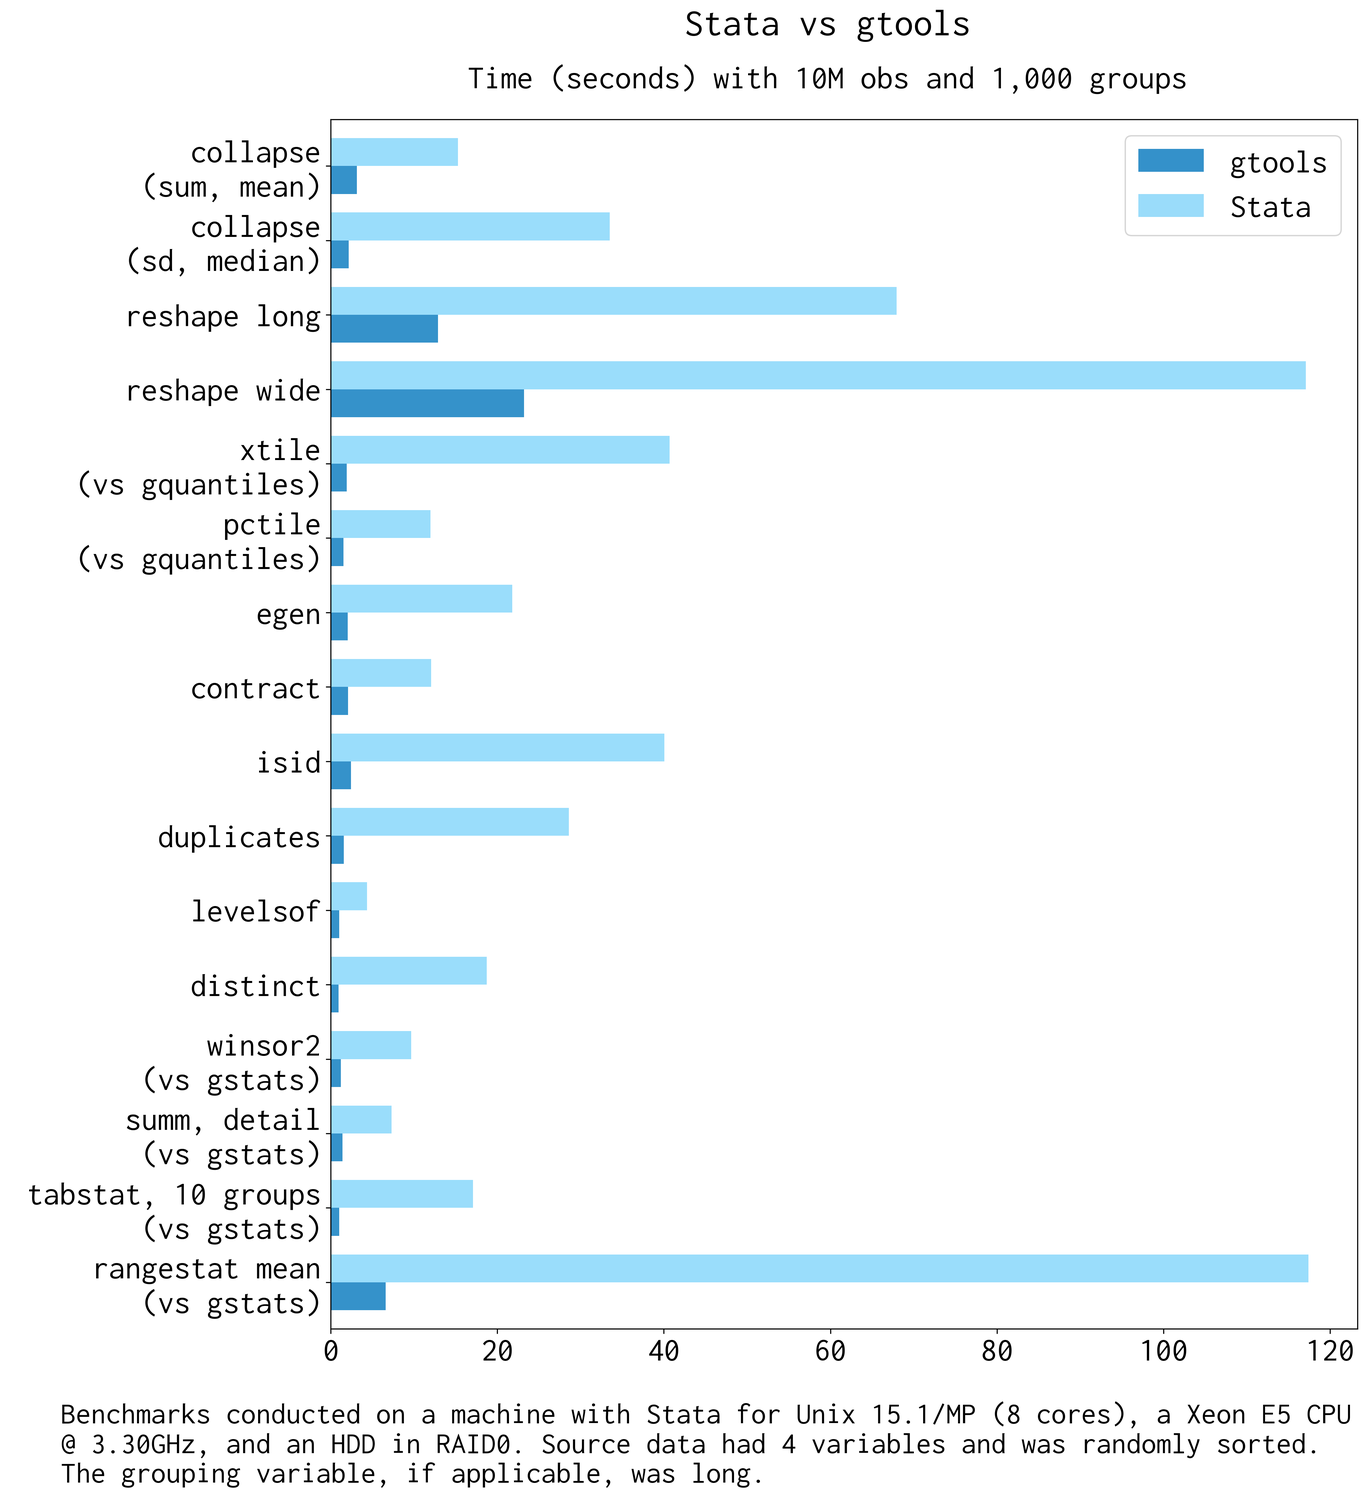
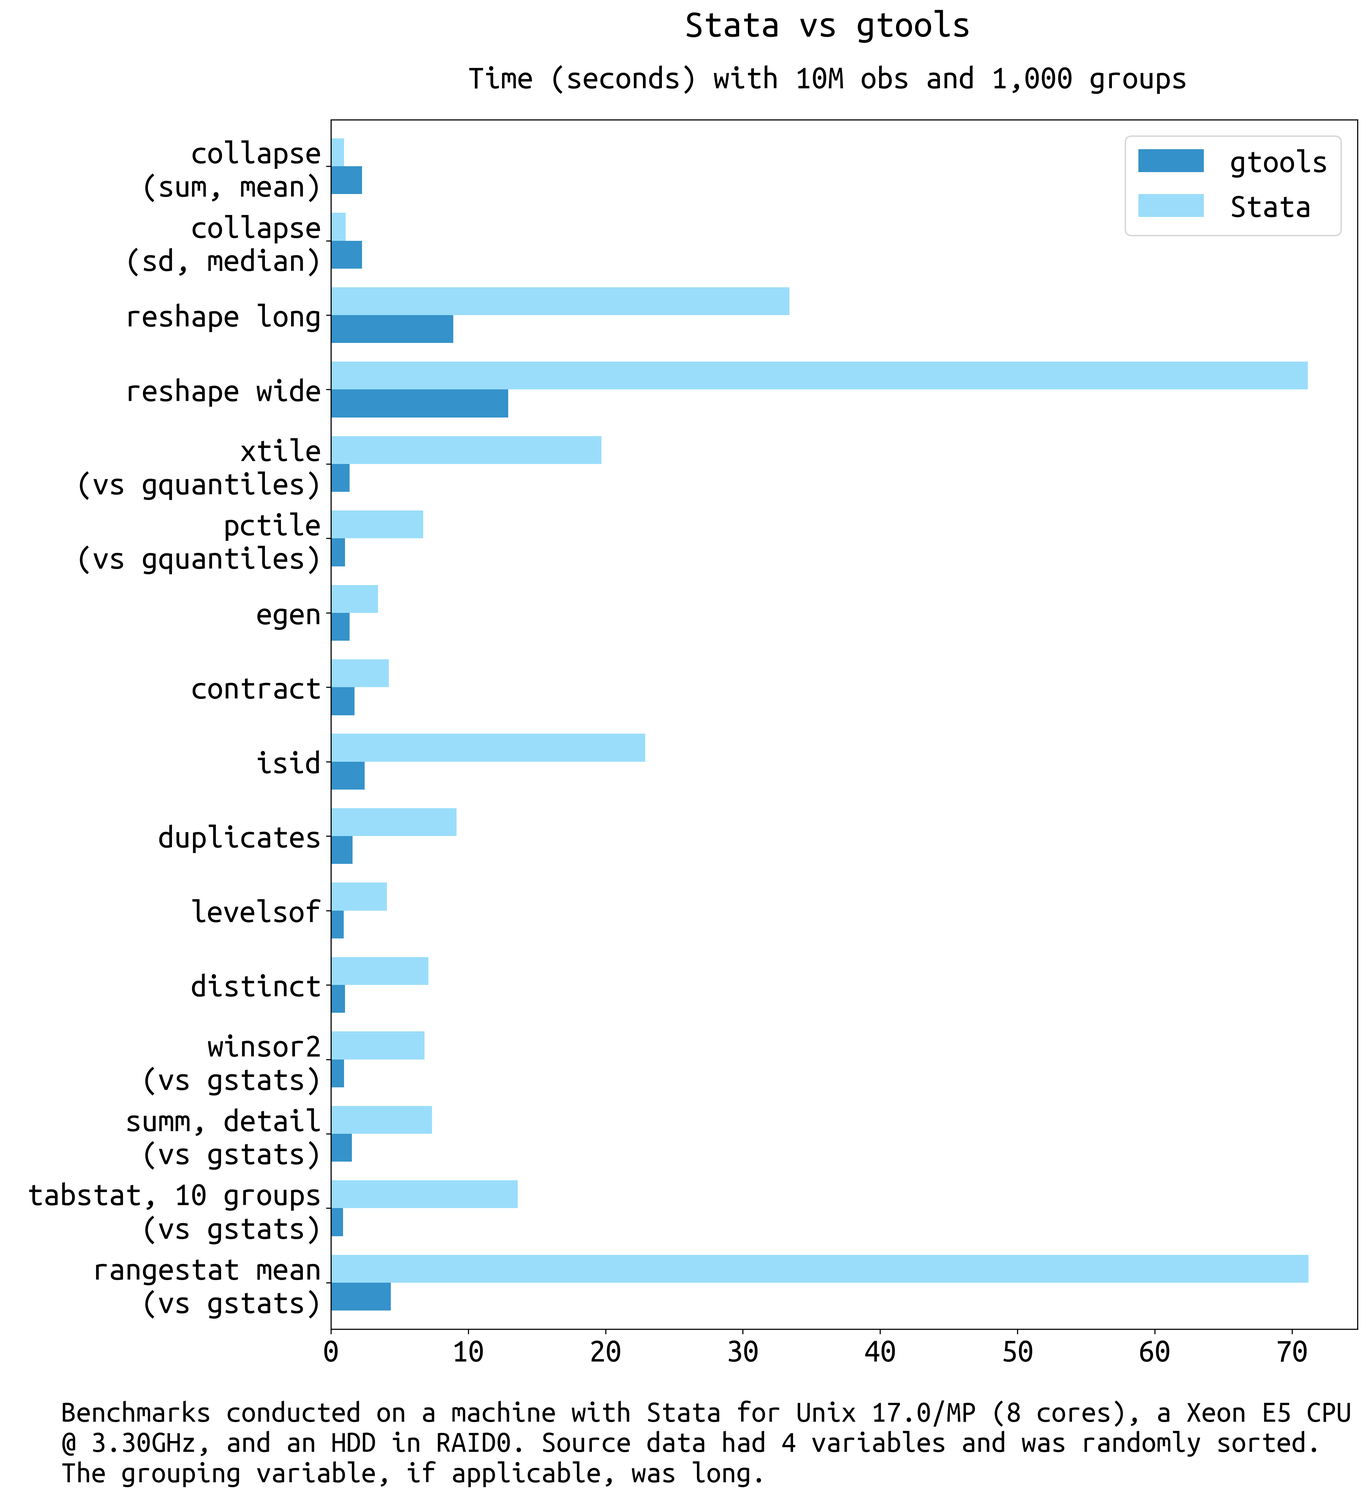
Updated quick bench with Stata 17/MP; noted collapse speedup

diff --git a/docs/benchmarks/quick.py b/docs/benchmarks/quick.py
@@ -29,6 +29,7 @@ import json
 # General command benchmark
 # -------------------------
 
+
 def main():
     df = get_benchmark_data()
     make_plot(df, 'light', 'quick.png')
@@ -38,46 +39,94 @@ def main():
 def get_benchmark_data():
     # Results from ./quick.do
 
+    # SE, laptop
     df = pd.DataFrame(
         [
-            ['collapse\n(sum, mean)',            23.10,  1.65],
-            ['collapse\n(sd, median)',           39.16,  1.39],
-            ['reshape long',                     100.85, 6.68],
-            ['reshape wide',                     110.06, 8.57],
-            ['xtile\n(vs gquantiles)',           26.85,  1.25],
-            ['pctile\n(vs gquantiles)',          21.82,  0.90],
-            ['egen',                             32.41,  0.88],
-            ['contract',                         8.25,   0.87],
-            ['isid',                             44.12,  0.92],
-            ['duplicates',                       40.78,  1.10],
-            ['levelsof',                         2.80,   0.50],
-            ['distinct',                         30.24,  0.57],
-            ['winsor2\n(vs gstats)',             19.93,  0.86],
-            ['summ, detail\n(vs gstats)',        41.3,   1.51],
-            ['tabstat, 10 groups\n(vs gstats)',  18.5,   1.24],
-            ['rangestat mean\n(vs gstats)',      108.9,  7.8],
+            ['collapse\n(sum, mean)',            2.95,  1.44],
+            ['collapse\n(sd, median)',           3.98,  1.47],
+            ['reshape long',                    51.25,  6.76],
+            ['reshape wide',                    81.92, 17.08],
+            ['xtile\n(vs gquantiles)',          22.57,  1.40],
+            ['pctile\n(vs gquantiles)',         45.18,  1.07],
+            ['egen',                             2.92,  1.28],
+            ['contract',                         8.10,  0.96],
+            ['isid',                            28.75,  1.09],
+            ['duplicates',                      16.31,  1.39],
+            ['levelsof',                         3.02,  0.51],
+            ['distinct',                        11.99,  0.76],
+            ['winsor2\n(vs gstats)',            37.74,  0.92],
+            ['summ, detail\n(vs gstats)',       39.91,  1.75],
+            ['tabstat, 10 groups\n(vs gstats)', 16.47,  1.23],
+            ['rangestat mean\n(vs gstats)',     72.61,  4.51],
         ],
         columns = [' ', 'Stata', 'gtools']
     )
 
+    # SE, server
     df = pd.DataFrame(
         [
-            ['collapse\n(sum, mean)',           15.29,  3.15],
-            ['collapse\n(sd, median)',          33.49,  2.17],
-            ['reshape long',                    67.95, 12.89],
-            ['reshape wide',                   117.08, 23.21],
-            ['xtile\n(vs gquantiles)',          40.69,  1.92],
-            ['pctile\n(vs gquantiles)',         12.00,  1.54],
-            ['egen',                            21.82,  2.06],
-            ['contract',                        12.07,  2.07],
-            ['isid',                            40.07,  2.44],
-            ['duplicates',                      28.61,  1.58],
-            ['levelsof',                         4.37,  1.01],
-            ['distinct',                        18.74,  0.93],
-            ['winsor2\n(vs gstats)',             9.67,  1.22],
-            ['summ, detail\n(vs gstats)',         7.3,  1.41],
-            ['tabstat, 10 groups\n(vs gstats)',  17.1,  1.04],
-            ['rangestat mean\n(vs gstats)',     117.4,   6.6],
+            ['collapse\n(sum, mean)',            2.50,  2.15],
+            ['collapse\n(sd, median)',           3.07,  2.01],
+            ['reshape long',                    46.31,  8.03],
+            ['reshape wide',                    90.74, 14.60],
+            ['xtile\n(vs gquantiles)',          25.18,  1.38],
+            ['pctile\n(vs gquantiles)',         29.71,  1.06],
+            ['egen',                             3.34,  1.23],
+            ['contract',                         5.05,  1.32],
+            ['isid',                            29.89,  2.00],
+            ['duplicates',                      11.89,  1.33],
+            ['levelsof',                         4.02,  0.75],
+            ['distinct',                         7.47,  0.74],
+            ['winsor2\n(vs gstats)',            23.69,  1.07],
+            ['summ, detail\n(vs gstats)',       21.30,  1.69],
+            ['tabstat, 10 groups\n(vs gstats)', 12.48,  1.15],
+            ['rangestat mean\n(vs gstats)',     81.01,  4.74],
+        ],
+        columns = [' ', 'Stata', 'gtools']
+    )
+
+    # MP, laptop
+    df = pd.DataFrame(
+        [
+            ['collapse\n(sum, mean)',            1.29,  1.50],
+            ['collapse\n(sd, median)',           1.34,  1.33],
+            ['reshape long',                    35.53,  5.94],
+            ['reshape wide',                    55.29, 12.39],
+            ['xtile\n(vs gquantiles)',          19.11,  1.24],
+            ['pctile\n(vs gquantiles)',         19.57,  0.86],
+            ['egen',                             2.51,  0.83],
+            ['contract',                         6.62,  0.87],
+            ['isid',                            20.88,  0.91],
+            ['duplicates',                      13.57,  1.07],
+            ['levelsof',                         2.58,  0.50],
+            ['distinct',                        12.40,  0.49],
+            ['winsor2\n(vs gstats)',            19.02,  1.27],
+            ['summ, detail\n(vs gstats)',       19.09,  1.43],
+            ['tabstat, 10 groups\n(vs gstats)', 16.38,  0.86],
+            ['rangestat mean\n(vs gstats)',     66.53,  3.83],
+        ],
+        columns = [' ', 'Stata', 'gtools']
+    )
+
+    # MP, server
+    df = pd.DataFrame(
+        [
+            ['collapse\n(sum, mean)',            0.95,  2.26],
+            ['collapse\n(sd, median)',           1.08,  2.27],
+            ['reshape long',                    33.39,  8.92],
+            ['reshape wide',                    71.16, 12.91],
+            ['xtile\n(vs gquantiles)',          19.70,  1.36],
+            ['pctile\n(vs gquantiles)',          6.71,  1.02],
+            ['egen',                             3.44,  1.36],
+            ['contract',                         4.21,  1.73],
+            ['isid',                            22.90,  2.45],
+            ['duplicates',                       9.14,  1.58],
+            ['levelsof',                         4.08,  0.94],
+            ['distinct',                         7.10,  1.03],
+            ['winsor2\n(vs gstats)',             6.81,  0.96],
+            ['summ, detail\n(vs gstats)',        7.36,  1.53],
+            ['tabstat, 10 groups\n(vs gstats)', 13.60,  0.88],
+            ['rangestat mean\n(vs gstats)',     71.20,  4.37],
         ],
         columns = [' ', 'Stata', 'gtools']
     )
@@ -87,18 +136,22 @@ def get_benchmark_data():
 
     return df
 
+
 def make_plot(df, style = 'light', outfile = 'quick.png'):
     palette = json.loads(open('material.json').read())
 
     if style == 'dark':
-        params = {"ytick.color" : "w",
-                  "xtick.color" : "w",
-                  "axes.labelcolor" : "w",
-                  "axes.edgecolor" : "w"}
+        params = {
+            "ytick.color": "w",
+            "xtick.color": "w",
+            "axes.labelcolor": "w",
+            "axes.edgecolor": "w"
+        }
     else:
         params = {}
 
-    plt.rc('font', family = 'Inconsolata')
+    # plt.rc('font', family = 'Inconsolata')
+    plt.rc('font', family = 'Ubuntu Mono')
     plt.rcParams.update(params)
 
     if style == 'dark':
@@ -143,7 +196,7 @@ def make_plot(df, style = 'light', outfile = 'quick.png'):
     )
     plt.figtext(
         -0.07875, 0.0125,
-        '\nBenchmarks conducted on a machine with Stata for Unix 15.1/MP (8 cores), a Xeon E5 CPU'
+        '\nBenchmarks conducted on a machine with Stata for Unix 17.0/MP (8 cores), a Xeon E5 CPU'
         '\n@ 3.30GHz, and an HDD in RAID0. Source data had 4 variables and was randomly sorted.'
         '\nThe grouping variable, if applicable, was long.',
         fontsize = fsizes[0],

diff --git a/README.md b/README.md
@@ -8,10 +8,10 @@
 | [Benchmarks <img src="https://upload.wikimedia.org/wikipedia/commons/6/64/Icon_External_Link.png" width="13px"/>](https://gtools.readthedocs.io/en/latest/benchmarks/index.html)
 | [Compiling <img src="https://upload.wikimedia.org/wikipedia/commons/6/64/Icon_External_Link.png" width="13px"/>](https://gtools.readthedocs.io/en/latest/compiling/index.html)
 
-Faster Stata for big data. This packages uses C plugins and hashes
-to provide a massive speed improvements to common Stata commands,
-including: collapse, reshape, xtile, tabstat, isid, egen, pctile,
-winsor, contract, levelsof, duplicates, unique/distinct, and more.
+Faster Stata for big data. This packages uses C plugins and hashes to
+provide a massive speed improvements to common Stata commands, including:
+reshape, collapse, xtile, tabstat, isid, egen, pctile, winsor, contract,
+levelsof, duplicates, unique/distinct, and more.
 
 ![Stable Version](https://img.shields.io/badge/beta-v1.8.4-blue.svg?longCache=true&style=flat-square)
 ![Supported Platforms](https://img.shields.io/badge/platforms-linux--64%20%7C%20osx--64%20%7C%20win--64-blue.svg?longCache=true&style=flat-square)
@@ -39,10 +39,11 @@ gtools, upgrade
 
 Some [quick benchmarks](https://raw.githubusercontent.com/mcaceresb/stata-gtools/develop/docs/benchmarks/quick.do):
 
-_**NOTE:**_ Stata tours massive speed improvements to [sort and collapse](https://www.stata.com/new-in-stata/faster-stata-speed-improvements/)
-as of version 17. I do not have access to Stata 17 so I cannot test 
-this myself, but please be aware the benchmarks below are presumably
-outdated for `gcollapse`.
+_**NOTE:**_ Stata 17 introduced massive speed improvements to [sort and collapse](https://www.stata.com/new-in-stata/faster-stata-speed-improvements/).
+In the MP version, in particular with many cores available, the native
+`collapse`  can be up to twice as fast. (YMMV; overall native collapses 
+could still be slower in some use cases.)  `gcollapse` remains faster
+in SE and older Stata versions.
 
 <img
     src="https://raw.githubusercontent.com/mcaceresb/stata-gtools/develop/docs/benchmarks/quick.png#gh-light-mode-only"
@@ -58,20 +59,20 @@ outdated for `gcollapse`.
 
 __*Gtools commands with a Stata equivalent*__
 
-| Function     | Replaces    | Speedup (IC / MP)        | Unsupported             | Extras                                  |
-| ------------ | ----------- | ------------------------ | ----------------------- | --------------------------------------- |
-| gcollapse    | collapse    |  9 to 300 / 4 to 120 (+) |                         | Quantiles, merge, labels, nunique, etc. |
-| greshape     | reshape     |  4 to 20  / 4 to 15      | "advanced syntax"       | `fast`, spread/gather (tidyr equiv)     |
-| gegen        | egen        |  9 to 26  / 4 to 9 (+,.) | labels                  | Weights, quantiles, nunique, etc.       |
-| gcontract    | contract    |  5 to 7   / 2.5 to 4     |                         |                                         |
-| gisid        | isid        |  8 to 30  / 4 to 14      | `using`, `sort`         | `if`, `in`                              |
-| glevelsof    | levelsof    |  3 to 13  / 2 to 7       |                         | Multiple variables, arbitrary levels    |
-| gduplicates  | duplicates  |  8 to 16 / 3 to 10       |                         |                                         |
-| gquantiles   | xtile       |  10 to 30 / 13 to 25 (-) |                         | `by()`, various (see [usage](https://gtools.readthedocs.io/en/latest/usage/gquantiles)) |
-|              | pctile      |  13 to 38 / 3 to 5 (-)   |                         | Ibid.                                   |
-|              | \_pctile    |  25 to 40 / 3 to 5       |                         | Ibid.                                   |
-| gstats tab   | tabstat     |  10 to 50 / 5 to 30      | See [remarks](#remarks) | various (see [usage](https://gtools.readthedocs.io/en/latest/usage/gstats_summarize)) |
-| gstats sum   | sum, detail |  10 to 20 / 5 to 10      | See [remarks](#remarks) | various (see [usage](https://gtools.readthedocs.io/en/latest/usage/gstats_summarize)) |
+| Function     | Replaces    | Speedup (IC / MP)              | Unsupported             | Extras                                  |
+| ------------ | ----------- | ------------------------------ | ----------------------- | --------------------------------------- |
+| gcollapse    | collapse    | -0.5 to 2 (Stata 17+); 4 to 100 (Stata 16 and earlier)  || Quantiles, merge, labels, nunique, etc. |
+| greshape     | reshape     |  4 to 20  / 4 to 15            | "advanced syntax"       | `fast`, spread/gather (tidyr equiv)     |
+| gegen        | egen        |  9 to 26  / 4 to 9 (+,.)       | labels                  | Weights, quantiles, nunique, etc.       |
+| gcontract    | contract    |  5 to 7   / 2.5 to 4           |                         |                                         |
+| gisid        | isid        |  8 to 30  / 4 to 14            | `using`, `sort`         | `if`, `in`                              |
+| glevelsof    | levelsof    |  3 to 13  / 2 to 7             |                         | Multiple variables, arbitrary levels    |
+| gduplicates  | duplicates  |  8 to 16 / 3 to 10             |                         |                                         |
+| gquantiles   | xtile       |  10 to 30 / 13 to 25 (-)       |                         | `by()`, various (see [usage](https://gtools.readthedocs.io/en/latest/usage/gquantiles)) |
+|              | pctile      |  13 to 38 / 3 to 5 (-)         |                         | Ibid.                                   |
+|              | \_pctile    |  25 to 40 / 3 to 5             |                         | Ibid.                                   |
+| gstats tab   | tabstat     |  10 to 50 / 5 to 30 (-)        | See [remarks](#remarks) | various (see [usage](https://gtools.readthedocs.io/en/latest/usage/gstats_summarize)) |
+| gstats sum   | sum, detail |  10 to 20 / 5 to 10            | See [remarks](#remarks) | various (see [usage](https://gtools.readthedocs.io/en/latest/usage/gstats_summarize)) |
 
 <small>(+) The upper end of the speed improvements are for quantiles
 (e.g. median, iqr, p90) and few groups. Weights have not been
@@ -111,9 +112,9 @@ the features of 'groups'</small>
 
 __*Regression models*__
 
-Regression models are in beta and are mainly intended as utilities
-to compute coefficients and standard errors. Various post-estimation
-commands and statistics are _not_ availabe. The following are included:
+_**WARNING:**_ Regression models are in beta and are only intended as utilities
+to compute coefficients and standard errors. I do not recommend their use in
+production; various post-estimation commands and statistics are _not_ availabe.
 
 | Function            | Model   | Similar                       |
 | ------------------- | ------- | ----------------------------- |

diff --git a/docs/index.md b/docs/index.md
@@ -2,7 +2,7 @@
 
 Faster Stata for big data. This packages uses C plugins and hashes
 to provide a massive speed improvements to common Stata commands,
-including: collapse, reshape, xtile, tabstat, isid, egen, pctile,
+including: reshape, collapse, xtile, tabstat, isid, egen, pctile,
 winsor, contract, levelsof, duplicates, unique/distinct, and more.
 
 ![Stable Version](https://img.shields.io/badge/stable-v1.8.4%20%7C%20linux--64%20%7C%20osx--64%20%7C%20win--64-blue.svg?longCache=true&style=flat-square)
@@ -34,29 +34,30 @@ gtools, upgrade
 Some [quick benchmarks](https://raw.githubusercontent.com/mcaceresb/stata-gtools/master/docs/benchmarks/quick.do):
 
 !!! info "Note"
-    Stata tours massive speed improvements to [sort and collapse](https://www.stata.com/new-in-stata/faster-stata-speed-improvements/)
-    as of version 17. I do not have access to Stata 17 so I cannot
-    test this myself, but please be aware the benchmarks below 
-    are presumably outdated for `gcollapse`.
+    Stata 17 introduced massive speed improvements to [sort and collapse](https://www.stata.com/new-in-stata/faster-stata-speed-improvements/).
+    In the MP version, in particular with many cores available, the native
+    `collapse`  can be up to twice as fast. (YMMV; overall native collapses 
+    could still be slower in some use cases.)  `gcollapse` remains faster
+    in SE and older Stata versions.
 
 ![Gtools quick benchmark](benchmarks/quick.png)
 
 __*Gtools commands with a Stata equivalent*__
 
-| Function     | Replaces    | Speedup (IC / MP)        | Unsupported             | Extras                                  |
-| ------------ | ----------- | ------------------------ | ----------------------- | --------------------------------------- |
-| gcollapse    | collapse    |  9 to 300 / 4 to 120 (+) |                         | Quantiles, merge, labels, nunique, etc. |
-| greshape     | reshape     |  4 to 20  / 4 to 15      | "advanced syntax"       | `fast`, spread/gather (tidyr equiv)     |
-| gegen        | egen        |  9 to 26  / 4 to 9 (+,.) | labels                  | Weights, quantiles, nunique, etc.       |
-| gcontract    | contract    |  5 to 7   / 2.5 to 4     |                         |                                         |
-| gisid        | isid        |  8 to 30  / 4 to 14      | `using`, `sort`         | `if`, `in`                              |
-| glevelsof    | levelsof    |  3 to 13  / 2 to 7       |                         | Multiple variables, arbitrary levels    |
-| gduplicates  | duplicates  |  8 to 16 / 3 to 10       |                         |                                         |
-| gquantiles   | xtile       |  10 to 30 / 13 to 25 (-) |                         | `by()`, various (see [usage](https://gtools.readthedocs.io/en/latest/usage/gquantiles)) |
-|              | pctile      |  13 to 38 / 3 to 5 (-)   |                         | Ibid.                                   |
-|              | \_pctile    |  25 to 40 / 3 to 5       |                         | Ibid.                                   |
-| gstats tab   | tabstat     |  10 to 50 / 5 to 30 (-)  | See [remarks](#remarks) | various (see [usage](https://gtools.readthedocs.io/en/latest/usage/gstats_summarize)) |
-| gstats sum   | sum, detail |  10 to 20 / 5 to 10      | See [remarks](#remarks) | various (see [usage](https://gtools.readthedocs.io/en/latest/usage/gstats_summarize)) |
+| Function     | Replaces    | Speedup (IC / MP)              | Unsupported             | Extras                                  |
+| ------------ | ----------- | ------------------------------ | ----------------------- | --------------------------------------- |
+| gcollapse    | collapse    | -0.5 to 2 (Stata 17+); 4 to 100 (Stata 16 and earlier)  || Quantiles, merge, labels, nunique, etc. |
+| greshape     | reshape     |  4 to 20  / 4 to 15            | "advanced syntax"       | `fast`, spread/gather (tidyr equiv)     |
+| gegen        | egen        |  9 to 26  / 4 to 9 (+,.)       | labels                  | Weights, quantiles, nunique, etc.       |
+| gcontract    | contract    |  5 to 7   / 2.5 to 4           |                         |                                         |
+| gisid        | isid        |  8 to 30  / 4 to 14            | `using`, `sort`         | `if`, `in`                              |
+| glevelsof    | levelsof    |  3 to 13  / 2 to 7             |                         | Multiple variables, arbitrary levels    |
+| gduplicates  | duplicates  |  8 to 16 / 3 to 10             |                         |                                         |
+| gquantiles   | xtile       |  10 to 30 / 13 to 25 (-)       |                         | `by()`, various (see [usage](https://gtools.readthedocs.io/en/latest/usage/gquantiles)) |
+|              | pctile      |  13 to 38 / 3 to 5 (-)         |                         | Ibid.                                   |
+|              | \_pctile    |  25 to 40 / 3 to 5             |                         | Ibid.                                   |
+| gstats tab   | tabstat     |  10 to 50 / 5 to 30 (-)        | See [remarks](#remarks) | various (see [usage](https://gtools.readthedocs.io/en/latest/usage/gstats_summarize)) |
+| gstats sum   | sum, detail |  10 to 20 / 5 to 10            | See [remarks](#remarks) | various (see [usage](https://gtools.readthedocs.io/en/latest/usage/gstats_summarize)) |
 
 <small>(+) The upper end of the speed improvements are for quantiles
 (e.g. median, iqr, p90) and few groups. Weights have not been
@@ -96,9 +97,10 @@ the features of 'groups'</small>
 
 __*Regression models*__
 
-Regression models are in beta and are mainly intended as utilities
-to compute coefficients and standard errors. Various post-estimation
-commands and statistics are _not_ availabe. The following are included:
+!!! Warning "Warning"
+    Regression models are in beta and are only intended as utilities to compute
+    coefficients and standard errors. I do not recommend their use in production;
+    various post-estimation commands and statistics are _not_ availabe.
 
 | Function            | Model   | Similar                       |
 | ------------------- | ------- | ----------------------------- |

diff --git a/docs/usage/gcollapse.md b/docs/usage/gcollapse.md
@@ -10,6 +10,12 @@ last, firstnm, lastnm for string variables are not supported.
 !!! tip "Important"
     Run `gtools, upgrade` to update `gtools` to the latest stable version.
 
+!!! info "Note"
+    Stata 17+, MP version, introduced significant speed improvements
+    to the native `collapse` command, specially with many cores. Depending
+    on the collapse, it can be up to twice as fast than `gcollapse`; however,
+    it remained slower for some use cases. YMMV.
+
 Syntax
 ------
 
